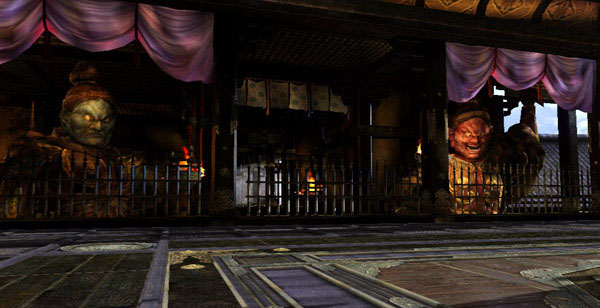
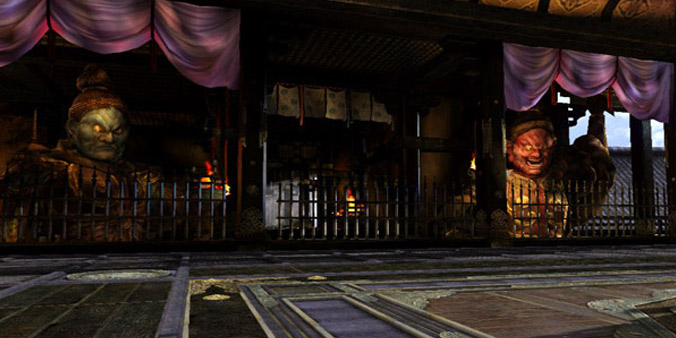
Fixed Stage Images

diff --git a/dist/stages.html b/dist/stages.html
@@ -58,7 +58,7 @@
          <p></p>
          <div class="container">
             <div class="col-lg-6 col-md-6 col-sm-12 inlineBlock">
-                <img class="stageImg" src="images/stages/Sakura_Schoolyard.jpg"> <!--Why isn't this showing?-->'
+                <img class="stageImg" src="images/stages/Sakura_Schoolyard2.jpg">
                 <p class="stageTitle center">Sakura School</p>
             </div>
             <div class="col-lg-6 col-md-6 col-sm-12 inlineBlock">
